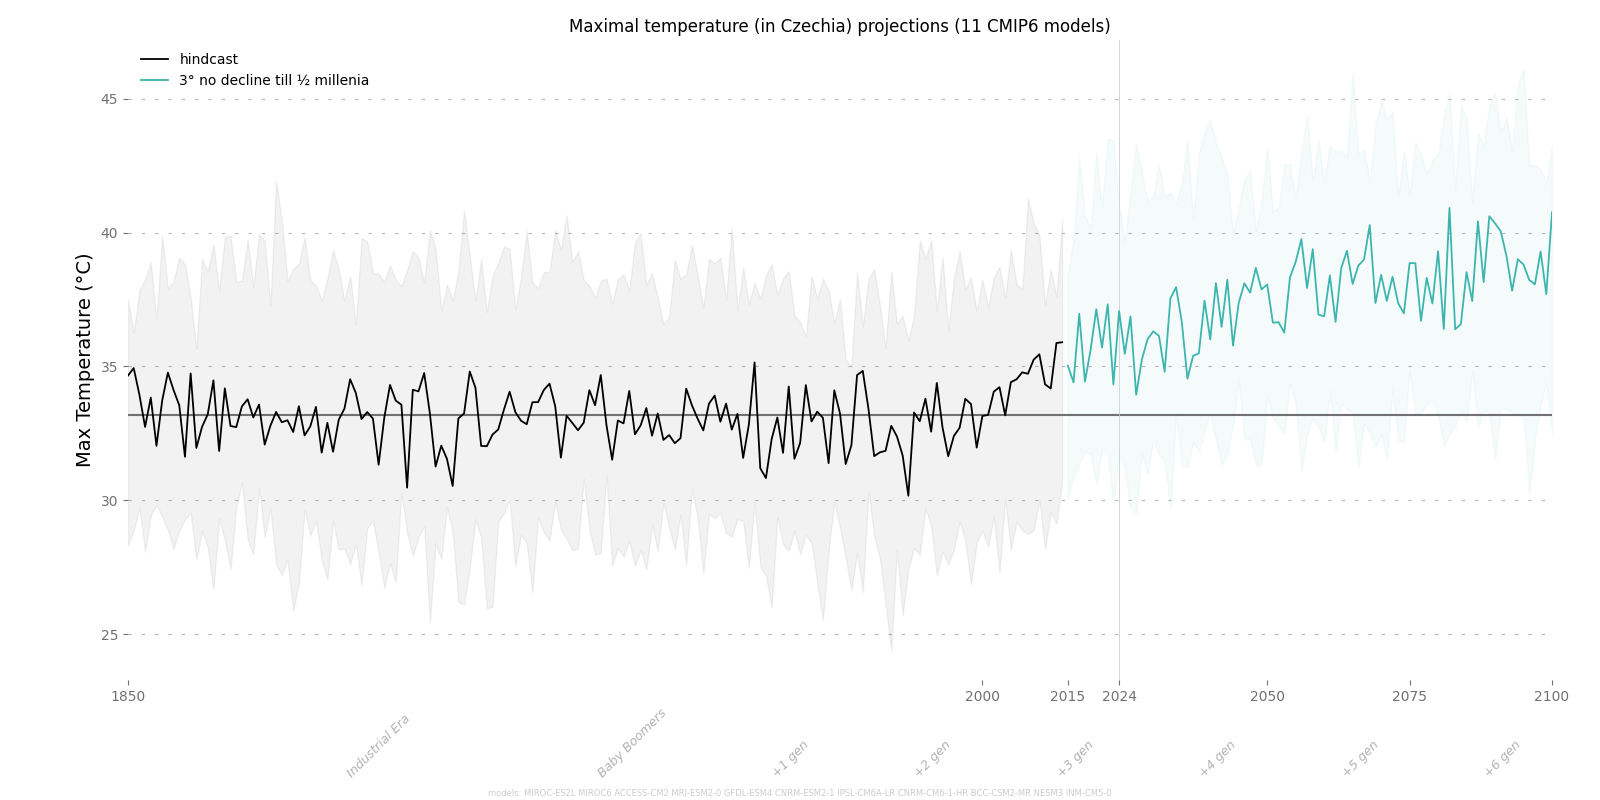
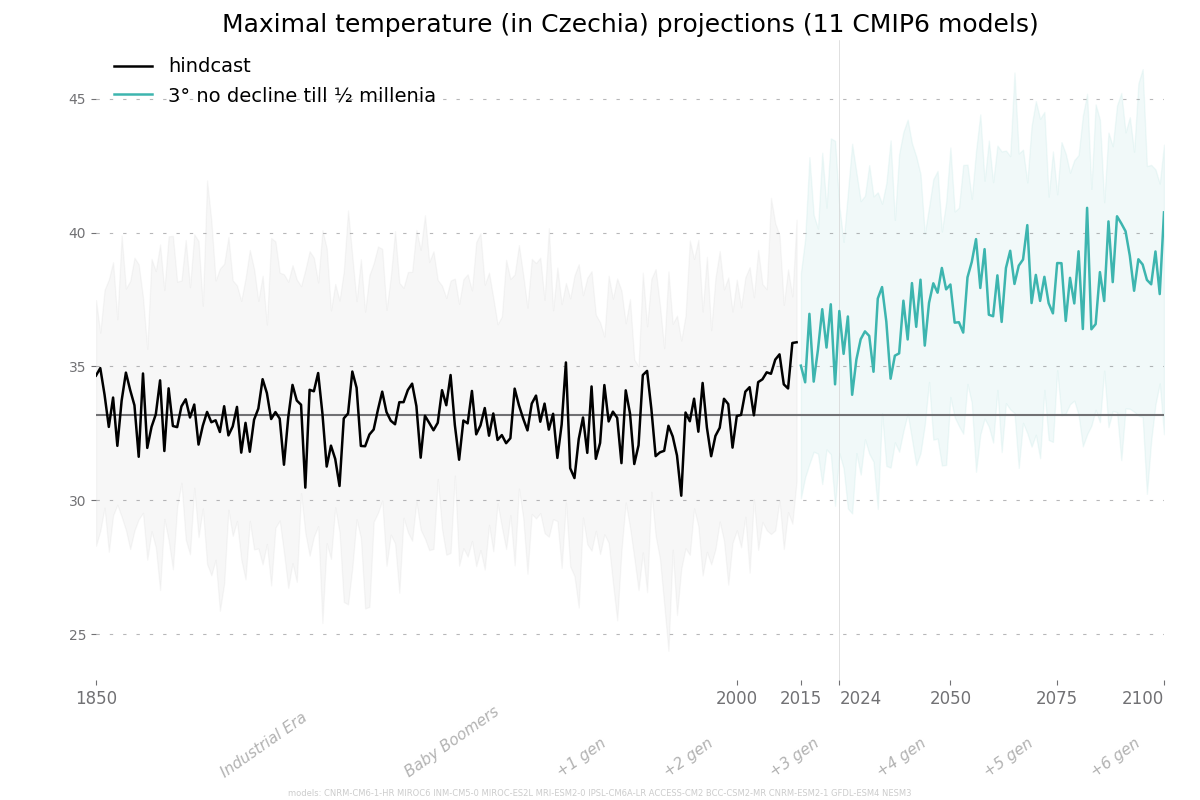
visualizations style improved

diff --git a/visualizations.py b/visualizations.py
@@ -13,20 +13,23 @@ import traceback
 colors = ['black','#3DB5AF','#61A3D2','#EE7F00', '#E34D21']
 
 class Charter:        
-  def __init__(self, data, variable=None, range=None, format='png'):
+  def __init__(self, data, variable=None, range=None, format='png', size=None):
     self.data = data
     self.variable = variable
     self.range = range
     self.format = format
+    self.size = size
 
-  def chartstacked(self, what='series'):
+  def stack(self, title=None, ylabel=None, what='series', marker=None):
     try:
       fig, ax = plt.subplots(1, 1)
+      if self.size: fig.set_size_inches(self.size[0], self.size[1])
+      if title: ax.set(title=title)  
+      if ylabel: ax.set(title=title)  
 
       models = set(self.data.model.values.flat)
-      ax.set(title=f'Local tropic days projection ({len(models)} CMIP6 models)', ylabel='Tropic days annualy')  
 
-      self._xaxis_climatic(ax)
+      self._xaxis_climatic(ax, marker=marker)        
 
       years = self.data.year.values #years = self.data.coords['year'].values
 
@@ -38,8 +41,10 @@ class Charter:
       bins = self.data.bins.values
       #bins = sorted(bins, reverse=True)
       bottom = np.zeros(len(years)) 
-      bucket_sums = bucket_values.mean(dim='model').max(dim='experiment')
-      palette = ["#FCED8D", "#FF9F47", "#E04B25", "#7A0B0A", "#330024"][2:]
+      bucket_sums = bucket_values.mean(dim='model').max(dim='experiment')      
+      palette = ["#E0C030", "#E0AB2F", "#E0952F", "#E0762F", "#E0572F", "#E0382F", "#BA2D25", "#911B14", "#690500"] #palette = ["#FCED8D", "#FF9F47", "#E04B25", "#7A0B0A", "#330024"][2:] #palette = ["#D9BC2B", "#D99518", "#D98218", "#D9601A", "#BF3111"][3:] # palette = ["#F0E500", "#F5BC00", "#DB8000", "#F54E00", "#EB0C00"][3:]
+      palette = [palette[5], palette[8]]
+
       colors = plt.cm.hot(range(len(bins)))
       for i, bin_label in enumerate(bins):
           bin_values = bucket_sums.sel(bins=bin_label).values
@@ -60,16 +65,15 @@ class Charter:
     
     except Exception as e: print(f"\nError in Viz: {type(e).__name__}: {e}"); traceback.print_exc(limit=1)
 
-  def chart(self, what='mean', zero=None, reference_lines=None, labels=None):
+  def plot(self, what='mean', title=None, ylabel=None, zero=None, reference_lines=None, labels=None):
     try:
       fig, ax = plt.subplots(1, 1)
+      if self.size: fig.set_size_inches(self.size[0], self.size[1])
+      if title: ax.set(title=title)  
+      if ylabel: ax.set(title=title)  
 
       models = set(self.data.model.values.flat)
-      if self.variable == 'temperature':
-        ax.set(title=f'Global temperature projections ({len(models)} CMIP6 models)', ylabel='Temperature')  
-      else:
-        ax.set(title=f'Maximal temperature (in Czechia) projections ({len(models)} CMIP6 models)', ylabel='Max Temperature (°C)')  
-
+      
       # SCALE
       if zero and not (np.isnan(zero) and not np.isinf(zero)):
         if zero:
@@ -81,7 +85,7 @@ class Charter:
         if False and self.variable == 'max_temperature':
           ax.set_ylim([34, 40])
 
-      self._xaxis_climatic(ax)
+      self._xaxis_climatic(ax, marker='now')
 
       if reference_lines: 
         if not zero:
@@ -91,9 +95,6 @@ class Charter:
           ax.axhline(y=zero+ref, color='#E34D21', linewidth=.5)
         plt.grid(axis='y')
 
-      current_year = datetime.datetime.now().year
-      ax.axvline(x=current_year, color='lightgray', linewidth=.5)
-
       
       # DATA
       if what == 'mean':
@@ -101,15 +102,17 @@ class Charter:
         legend = [labels[s] for s in series]
         for i in np.arange(len(series)):
           try:
-            ax.plot(self.data.year, self.range['mean'][i,:], color=f'{colors[i%len(colors)]}', label=f'{legend[i]}', linewidth=1.3)
-            ax.fill_between(self.data.year, self.range['top'][i,:], self.range['bottom'][i,:], alpha=0.05, color=f'{colors[i]}')
+            ax.plot(self.data.year, self.range['mean'][i,:], color=f'{colors[i%len(colors)]}', label=f'{legend[i]}', linewidth=1.8)
+            
+            alpha=0.03 if legend[i] == 'hindcast' else 0.07
+            ax.fill_between(self.data.year, self.range['top'][i,:], self.range['bottom'][i,:], alpha=alpha, color=f'{colors[i]}')
           except Exception as e: print(f"Error: {type(e).__name__}: {e}")
       else:
         years = self.data.coords['year'].values
         legend = self.data.model.values
         for i, model in enumerate(self.data.coords['model'].values):
           try:
-            ax.plot(years, self.data.sel(model=model).values.squeeze(), color=f'{colors[i%len(colors)]}', label=model, linewidth=1.3)
+            ax.plot(years, self.data.sel(model=model).values.squeeze(), color=f'{colors[i%len(colors)]}', label=model, linewidth=1.8)
           except Exception as e: print(f"Error: {type(e).__name__}: {e}")
 
       handles, labels = ax.get_legend_handles_labels()
@@ -127,22 +130,28 @@ class Charter:
     
     except Exception as e: print(f"Visualization\nError: {type(e).__name__}: {e}"); traceback.print_exc(limit=1)
 
-  def _xaxis_climatic(self, ax):
+  def _xaxis_climatic(self, ax, marker=None):
     current_year = datetime.datetime.now().year
     ax.set(xlim=(1850, 2100))
     plt.subplots_adjust(left=.08, right=.97, top=0.95, bottom=0.15)
     ax.yaxis.label.set_size(14)
-
     xticks_major = [1850, 2000, 2015, 2050, 2075, 2100]
     bisect.insort(xticks_major, current_year)
+
     xticks_minor = [1900, 1945, 1970, 1995, 2020, 2045, 2070, 2095]
     xtickvals_minor = ['Industrial Era', 'Baby Boomers', '+1 gen', '+2 gen', '+3 gen', '+4 gen', '+5 gen', '+6 gen']
 
     ax.set_xticks(xticks_major) 
     ax.set_xticklabels(xticks_major)
     ax.set_xticks(xticks_minor, minor=True)  
-    ax.set_xticklabels(xtickvals_minor, minor=True, rotation=45, va='bottom', ha='right',  fontstyle='italic', color='#b2b2b2', fontsize=9)
+    ax.set_xticklabels(xtickvals_minor, minor=True, rotation=35, va='bottom', ha='right',  fontstyle='italic', color='#b2b2b2', fontsize=11)
     ax.xaxis.set_tick_params(which='minor', pad=70, color="white")
 
-    ax.axvline(x=current_year, color='lightgray', linewidth=.5)
-
+    for tick, label in zip(ax.get_xticks(), ax.get_xticklabels()):
+      if tick == xticks_major[-1]: label.set_ha('right')
+      elif tick == current_year: label.set_ha('left')
+    
+    if marker:
+      ax.axvline(x=marker, color='white', linewidth=.5)
+    else:
+      ax.axvline(x=current_year, color='lightgray', linewidth=.5)

diff --git a/ClimateProjections.py b/ClimateProjections.py
@@ -14,9 +14,11 @@
 
 # WHAT to plot
 #variable = 'temperature'
-variable = 'max_temperature'
-stacked = False # aggregate into buckets
-reaggregate = True # compute aggregations regardles if they already exist
+variable = 'max_temperature'  
+stacked = True # aggregate into buckets
+reaggregate = False # compute aggregations regardles if they already exist
+
+#variable = 'history' # not working yet: https://web.archive.org/web/20240516185454/https://cds.climate.copernicus.eu/cdsapp#!/dataset/reanalysis-era5-land?tab=form
 
 scenarios = {
   'to-visualize': {
@@ -53,7 +55,7 @@ from cartopy.mpl.gridliner import LONGITUDE_FORMATTER, LATITUDE_FORMATTER
 import cartopy.feature as cfeature
 
 # Utils
-from downloader import download
+import downloader
 import visualizations
 
 import util
@@ -64,7 +66,8 @@ forecast_from = 2015 # hidcast data not available beyond 2014 anyway for most mo
 experiments = scenarios['to-visualize'].keys()
 variables = {
   'temperature': {'request': 'near_surface_air_temperature', 'dataset': 'tas'},
-  'max_temperature': {'request': 'daily_maximum_near_surface_air_temperature', 'dataset': 'tasmax'}
+  'max_temperature': {'request': 'daily_maximum_near_surface_air_temperature', 'dataset': 'tasmax', 
+  'historical': {'request': '2m_temperature', 'dataset': 'tas'}}
 }
 
 md = util.loadMD('model_md')
@@ -74,14 +77,15 @@ models = md['validated_models'] # models to be downloaded – when empty, only a
 # DOWNLOADING 
 
 if variable == 'temperature':
-  download(models, experiments, DATADIR, mark_failing_scenarios=mark_failing_scenarios, forecast_from=forecast_from)
-else:
+  downloader.download(models, experiments, DATADIR, mark_failing_scenarios=mark_failing_scenarios, forecast_from=forecast_from)
+elif variable == 'max_temperature':
   models = md["validated_max_temp"]
-  models = []
-  experiments = ['historical', 'ssp126', 'ssp245']
   experiments = ['historical', 'ssp245']
-  #download(models, experiments, DATADIR, variable=variables[variable]['request'], area=md['area']['cz'], frequency='monthly', mark_failing_scenarios=True, forecast_from=forecast_from)
-  download(models, experiments, DATADIR, variable=variables[variable]['request'], area=md['area']['cz'], frequency='daily', mark_failing_scenarios=mark_failing_scenarios, forecast_from=forecast_from)
+  frequency='daily'
+  downloader.download(models, experiments, DATADIR, variable=variables[variable]['request'], area=md['area']['cz'], frequency=frequency, mark_failing_scenarios=mark_failing_scenarios, forecast_from=forecast_from)
+else:
+  downloader.reanalysis()
+
 
 cmip6_nc = list()
 cmip6_nc_rel = glob(f'{DATADIR}tas*.nc')
@@ -188,12 +192,12 @@ try:
 
 
 # VISUALIZE
-
+  model_count = set(data_ds_filtered.model.values.flat)
   if stacked:
     chart = visualizations.Charter(data_ds_filtered, variable=variable)
 
     if variable == 'max_temperature':    
-      chart.chartstacked(what='series')
+      chart.stack(title=f'Tropic days (in Czechia) projection ({len(models)} CMIP6 models)', ylabel='Tropic days annualy', what='series', marker=forecast_from)
   
   else: 
       data = data_ds_filtered[variables[variable]['dataset']]
@@ -208,10 +212,10 @@ try:
 
       if variable == 'temperature':
         
-        chart.chart(zero=preindustrial_temp, reference_lines=[0, 2], labels=scenarios['to-visualize'])
+        chart.plot(title=f'Global temperature projections ({len(model_count)} CMIP6 models)', ylabel='Temperature', zero=preindustrial_temp, reference_lines=[0, 2], labels=scenarios['to-visualize'])
         #chart(what='series')
       else:
-        
-        chart.chart(reference_lines=[preindustrial_temp], labels=scenarios['to-visualize'])
+        maxes = {'Madrid': 35}
+        chart.plot(title=f'Maximal temperature (in Czechia) projections ({len(model_count)} CMIP6 models)', ylabel='Max Temperature (°C)', reference_lines=[preindustrial_temp], labels=scenarios['to-visualize'])
 
 except Exception as e: print(f"\nError: {type(e).__name__}: {e}"); traceback.print_exc(limit=1)

diff --git a/downloader.py b/downloader.py
@@ -7,8 +7,6 @@ urllib3.disable_warnings() # Disable warnings for data download via API
 status = util.loadMD('status')
 
 c = cdsapi.Client()
-#historical_data: {'product': 'reanalysis-era5-single-levels', 'params': {'product_type': 'reanalysis', 'variable': '2m_temperature'}}
-
 
 def metadata(models, experiments, date=2014): 
   metadata = []
@@ -75,3 +73,11 @@ def download(models, experiments, DATADIR, variable='near_surface_air_temperatur
   if(mark_failing_scenarios):
     status['unavailable_experiments'][variable] = unavailable_experiments
     util.saveMD(status, 'status') 
+
+def reanalysis():
+  c.retrieve('reanalysis-era5-single-levels', {
+    'product_type': 'reanalysis', 
+    'variable': '2m_temperature'
+    #'year': list(range(1910,1918+1)),
+    #'area': [51, 12, 48, 18]
+    })

diff --git a/README.md b/README.md
@@ -16,7 +16,7 @@ Averages by 50th quantile. Ranges by 10-90th quantile.
 ![Local tropic days in summer months with the max temperature over 30 °C projections (CMIP6 models)](charts/latest_tropic.png)
 
 ### Work in progress (exploration)
-This is just an exploration. The max temperature projections seems to be varying a lot and predictions are available in less number of models. 
+This an exploration so far. The max temperature projections seems to be varying a lot and predictions are available in less number of models. 
 Alternative is to explore averages of daily forecasts for summer months.
 
 # How to run it
